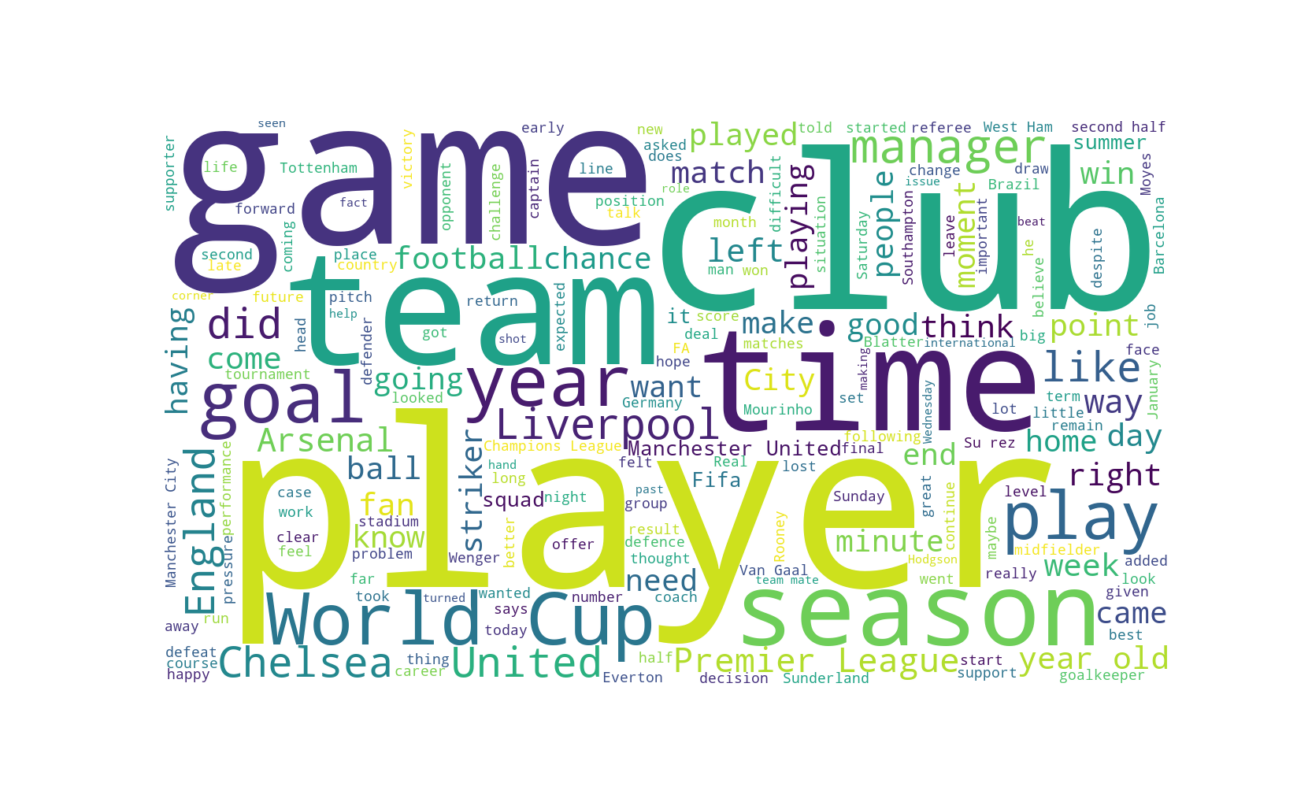
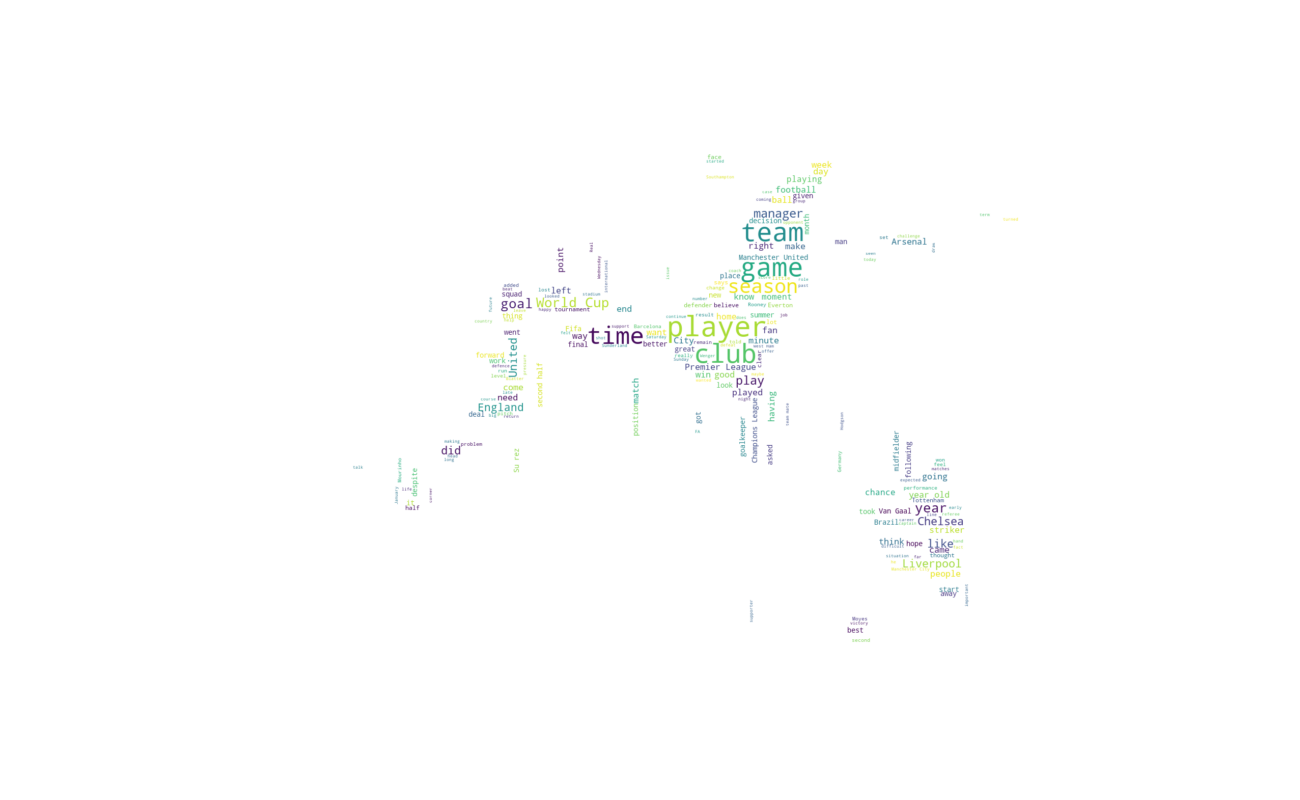
Wordcloud with image mask

Changed region(s): [[0.1231, 0.1562, 0.8923, 0.875]]

diff --git a/wcloud.py b/wcloud.py
@@ -1,6 +1,8 @@
 from wordcloud import WordCloud
 from sklearn.feature_extraction.text import ENGLISH_STOP_WORDS
 import matplotlib.pyplot as plt
+from PIL import Image
+import numpy as np
 import pandas as pd
 
 custom_stopwords = set(ENGLISH_STOP_WORDS)
@@ -11,6 +13,7 @@ train_data = pd.read_csv('train_set.csv', sep="\t")
 
 Categories = list(set(train_data['Category']))
 category_text_list = [[] for x in Categories]
+img_masks = {"Business":"business.png", "Football":"football.png", "Politics":"politics.png", "Film":"film.png", "Technology":"technology.png"}
 
 for x in zip(train_data['Content'],train_data['Category']):
 	index = Categories.index(x[1])
@@ -18,7 +21,8 @@ for x in zip(train_data['Content'],train_data['Category']):
 
 for i in range(0, len(Categories)):
 	category_text = ' '.join(category_text_list[i])
-	wc = WordCloud(width=1280, height=720, stopwords=custom_stopwords, background_color="white").generate(category_text)
+	mask = np.array(Image.open(img_masks[Categories[i]]))
+	wc = WordCloud(width=1280, height=720, stopwords=custom_stopwords, mask=mask, background_color="white").generate(category_text)
 	fig = plt.figure(figsize=(13,8))
 	plt.imshow(wc, interpolation="bilinear")
 	plt.axis("off")	
